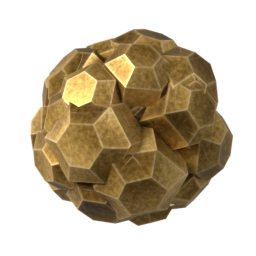
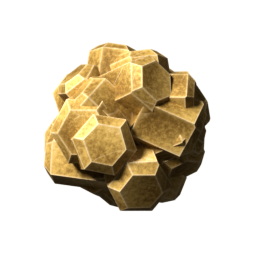
Самородок ближе к образцу: отдельные наклонённые кристаллы, контраст света и тени, меньше размер

diff --git a/prototype/tools/blender/gem_kit.py b/prototype/tools/blender/gem_kit.py
@@ -611,31 +611,35 @@ def render(style, name, dark, mid, light, ore=None, mask=False):
 
 # ---------------------------------------------------------------- items on the board
 
-GOLD = ((0.05, 0.03, 0.008), (0.3, 0.18, 0.045), (0.7, 0.48, 0.16))   # dark / mid / light of the gold's paint
+GOLD = ((0.035, 0.02, 0.005), (0.24, 0.14, 0.035), (0.62, 0.42, 0.13))   # dark / mid / light of the gold's paint
 
 def gold_cluster():
     """the gold nugget brought down the board: a ball of chunky gold crystals, each a short rounded prism standing
     out of the ball, big ones in front, small ones packed between, dark crevices round every one"""
     rnd = random.Random(61)
     parts = []
-    for k, u in enumerate(fib(32, rnd, 0.45)):
+    for k, u in enumerate(fib(28, rnd, 0.5)):
         front = max(0.0, -u.y)                             # facing the camera
-        w = rnd.uniform(0.1, 0.125) * (1.0 + 0.3 * front)
+        w = rnd.uniform(0.095, 0.12) * (1.0 + 0.3 * front)
         # a short hexagonal prism, its top flat and its top edges chamfered: a crystal of the reference's shape
-        h = w * rnd.uniform(0.9, 1.25)
+        h = w * rnd.uniform(1.0, 1.35)
         spin = rnd.uniform(0, math.tau)
         pl = ring_planes(6, w, 0, 0.0, spin, rnd, 0.08)
-        pl += ring_planes(6, w * 0.78, h * 0.78, math.radians(45), spin, rnd, 0.1)
+        # a broad flat top, its edge cut by one narrow ring of chamfers
+        pl += ring_planes(6, w * 0.86, h * 0.86, math.radians(45), spin, rnd, 0.06)
         pl.append((Vector((0, 0, h)), Vector((0, 0, 1))))
         pl.append((Vector((0, 0, -h)), Vector((0, 0, -1))))
-        o = cut(pl, 100 + k, (0.4, 1.15))
+        o = cut(pl, 100 + k, (0.85, 1.05))   # one even gold: the lamp, not the paint, sets top against sides
         # its long axis pointing out of the ball, spun at random
-        q = Vector((0, 0, 1)).rotation_difference(u) @ Quaternion(Vector((0, 0, 1)), rnd.uniform(0, math.tau))
+        # leaning well off the outward line, so from the front we see each one's top and sides, not a mosaic of tops
+        axis = (u + Vector((rnd.uniform(-1, 1), rnd.uniform(-1, 1), rnd.uniform(-1, 1))) * 0.8).normalized()
+        q = Vector((0, 0, 1)).rotation_difference(axis) @ Quaternion(Vector((0, 0, 1)), rnd.uniform(0, math.tau))
         o.rotation_mode = 'QUATERNION'; o.rotation_quaternion = q
-        o.location = u * rnd.uniform(0.23, 0.26)
+        # set in at uneven depths: a lumpy outline, not a smooth ball
+        o.location = u * rnd.uniform(0.22, 0.27)
         parts.append(o)
     # a dark core fills the gaps, so they read as deep crevices
-    core = cut(block_planes(24, 99, 0.25, 0.25, 0.25, 2.0), 99, (0.05, 0.12))
+    core = cut(block_planes(24, 99, 0.22, 0.22, 0.22, 2.0), 99, (0.03, 0.06))
     parts.append(core)
     for o in parts:
         paint_facets(o)
@@ -647,19 +651,21 @@ def render_item(name):
     m = gem_mat(*GOLD)
     p = m.node_tree.nodes["Principled BSDF"]
     # metal, not glass: it reflects the studio, the paint still decides the colour
-    p.inputs["Metallic"].default_value = 0.5
-    p.inputs["Roughness"].default_value = 0.38
+    p.inputs["Metallic"].default_value = 0.25
+    p.inputs["Roughness"].default_value = 0.42
     # lit by the lamp rather than by itself: the crevices between the crystals must go dark
     for ln in list(m.node_tree.links):
         if ln.to_socket == p.inputs["Emission Strength"]: m.node_tree.links.remove(ln)
     p.inputs["Emission Strength"].default_value = 0.04
-    bpy.data.lights["sun"].energy = 3.2
-    bpy.data.worlds["w"].node_tree.nodes["Background"].inputs[1].default_value = 0.3
+    # a high lamp: the crystals' tops catch it, their sides fall into shade
+    sun = bpy.data.objects["sun"]; sun.data.energy = 8.0
+    sun.rotation_euler = Vector((0.55, 0.45, -0.7)).to_track_quat('-Z', 'Y').to_euler()
+    bpy.data.worlds["w"].node_tree.nodes["Background"].inputs[1].default_value = 0.04
     for o in parts:
         o.data.materials.append(m)
     # the same height on the board as a gem
     bpy.context.view_layer.update()
-    k = HEIGHT / 0.66
+    k = HEIGHT / 0.8   # a little smaller than a gem
     for o in parts:
         o.location *= k; o.scale = (k, k, k)
     sc.render.filepath = os.path.join(OUT, "items", name + ".png")
